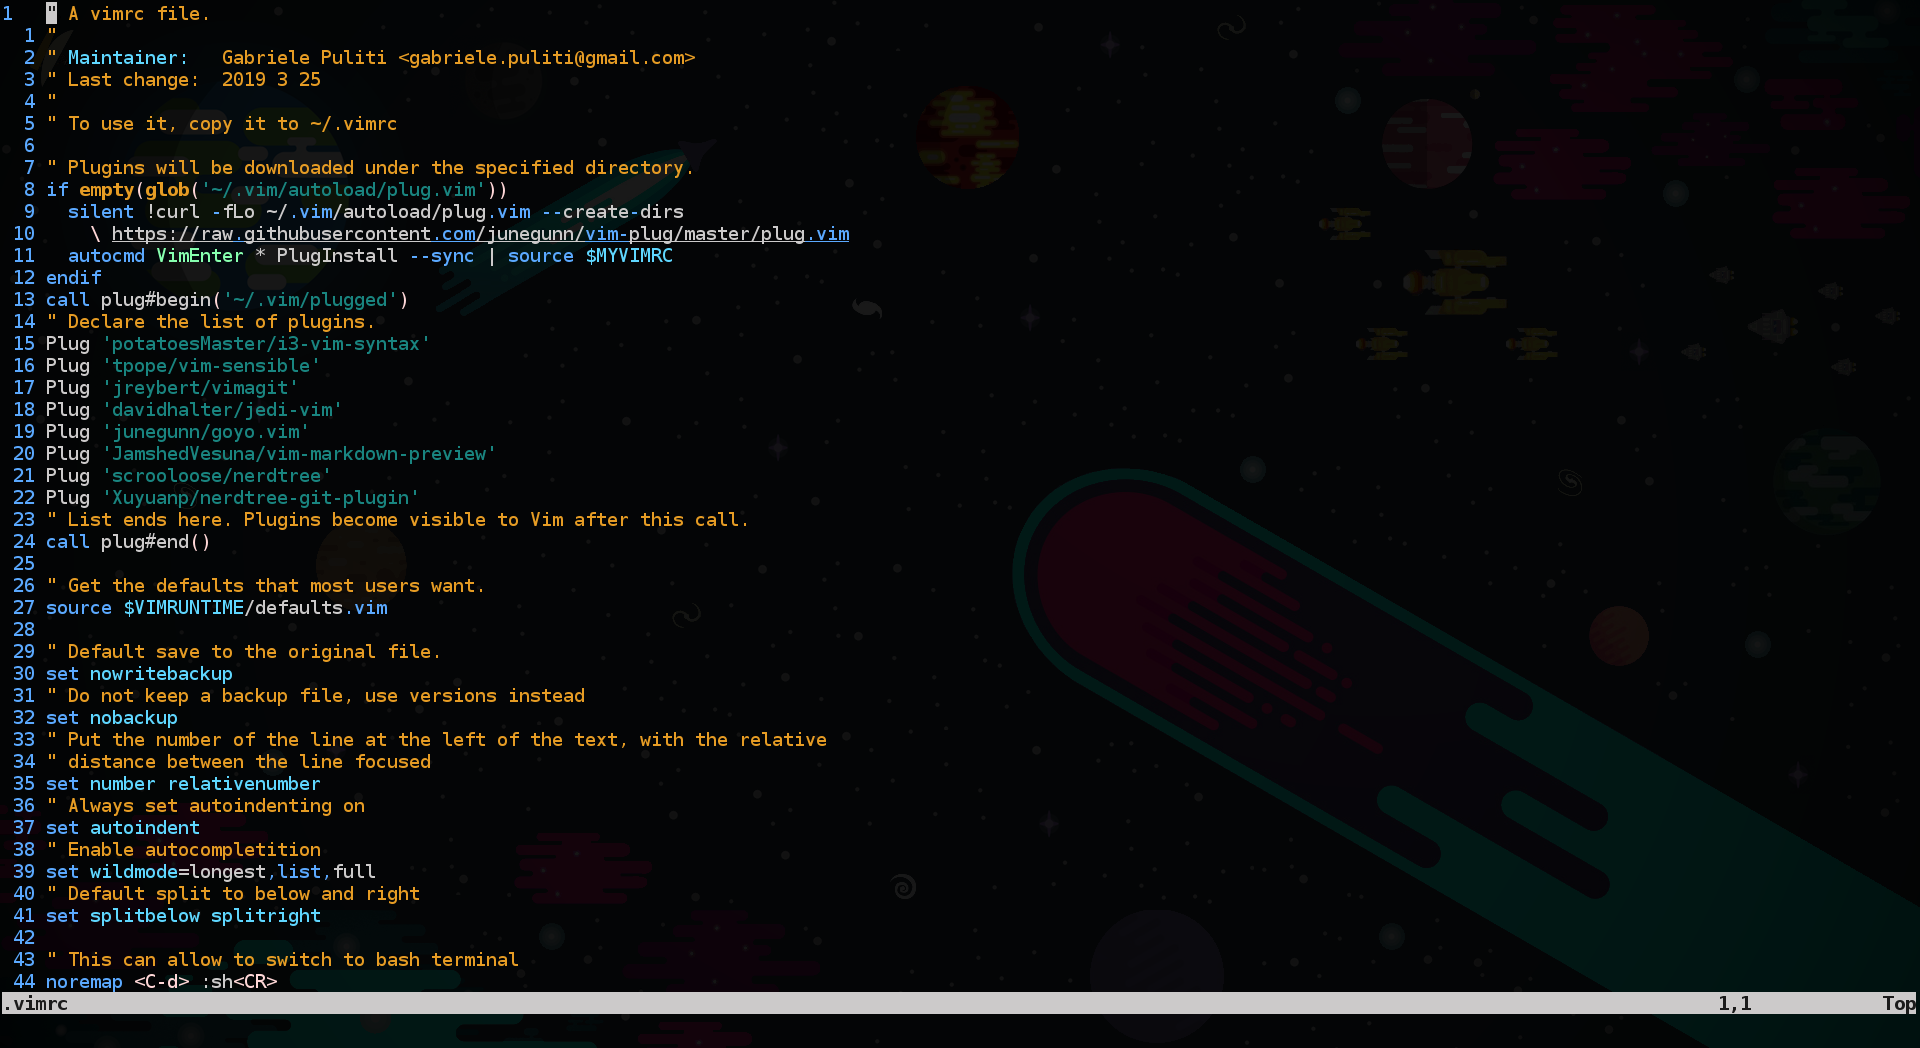
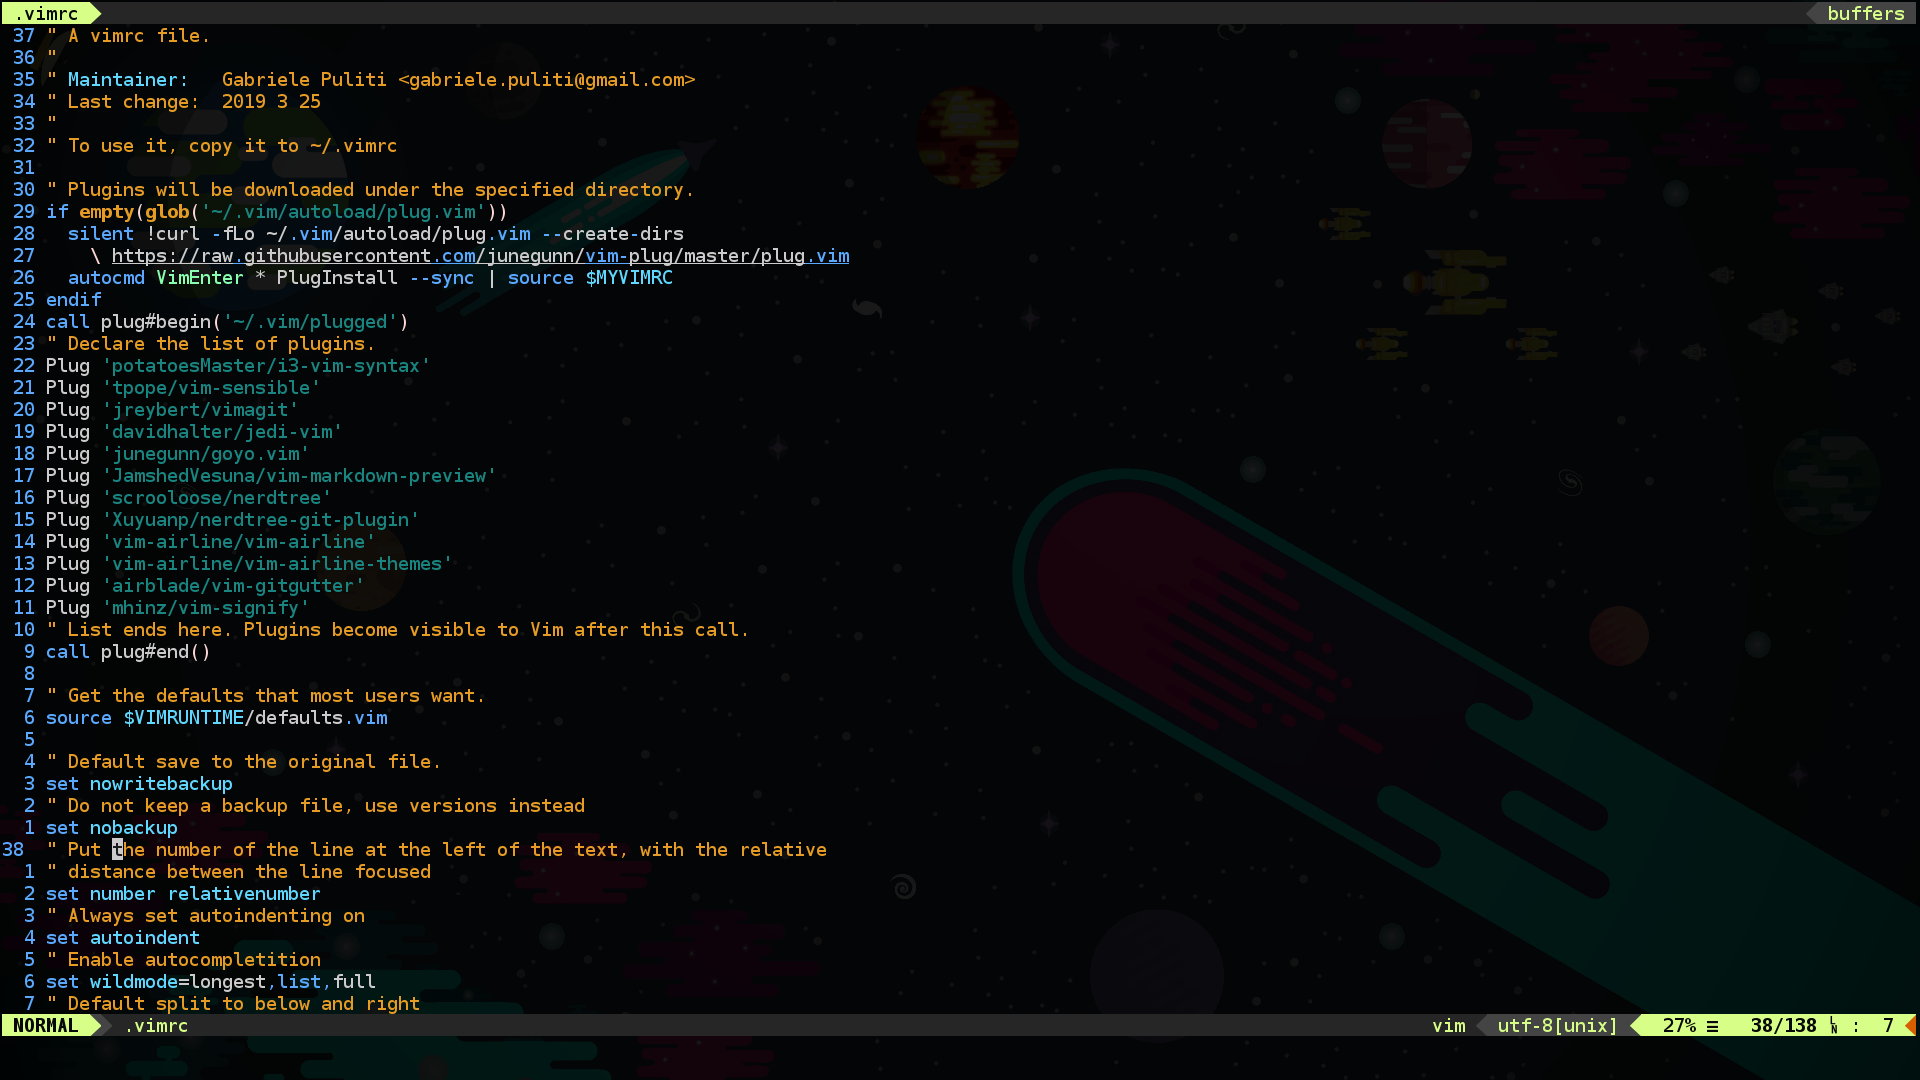
update (vim powerline)

Changed region(s): [[0.0, 0.0, 1.0, 0.9771]]

diff --git a/README.md b/README.md
@@ -1,6 +1,7 @@
 # Dotfiles
 
 ## Some details
+
 * OS: Debian 9 (stretch)
 * WM: I3wm ([i3-gaps](https://github.com/Airblader/i3))
 * Terminal: rxvt-unicode-256color (URxvt)
@@ -37,11 +38,40 @@
 This configuration is Vim oriented (move keys with h-j-k-l).
 You can find the config here -> [file](home/.config/i3/config)
 
+For this configuration I use this modes:
+
+1. Resize -> default resize modality of i3, use:
+
+    * l -> resize shrink width
+    * j -> resize grow height
+    * k -> resize shrink height
+    * h -> resize grow width
+    * q or Escape -> return to default mode
+
+2. System -> use to exit from i3, use:
+
+    * l -> logout
+    * s -> suspend
+    * h -> hibernate
+    * r -> reboot
+    * p -> shutdown
+    * q or Escape -> return to default mode
+
+3. Spotify -> use to control spotify desktop app, use:
+
+    * h -> previous song
+    * j -> pause
+    * k -> play
+    * l -> next song
+    * s -> toggle pause and play
+    * q or Escape -> return to default mode
+
 ### Preview
 
 ![i3preview](resources/i3.png)
 
 ### Keyboard
+
 I use the windows key as my main mod key.
 
 * `super + enter` -> new terminal
@@ -90,11 +120,13 @@ Bottom
 ### Modules
 
 Upper bar:
+
 * left -> spotify
 * center -> wireless-network wired-network
 * right -> tray
 
 Bottom bar:
+
 * left -> cpu memory filesystem temperature
 * center -> i3
 * right -> pulseaudio backlight battery date
@@ -110,12 +142,14 @@ You can find the Xresources here -> [file](home/.Xresources)
 ![urxvt](resources/urxvt.png)
 
 ### Keyboard
+
 * `Ctrl+k` -> increase the font size
 * `Ctrl+j` -> decrease the font size
 * `Ctrl+Shift+c` -> copy to the clipboard
 * `Ctrl+Shift+v` -> paste from the clipboard
 
 ### Plugin
+
 * [font-size](https://github.com/johntyree/urxvt-perls)
 * [url-select](https://github.com/johntyree/urxvt-perls)
 
@@ -130,9 +164,11 @@ You can find the zshrc here -> [file](home/.zshrc)
 ![zsh](resources/zsh.png)
 
 ### Keyboard
+
 Vim bindkey is active.
 
 ### Plugin
+
 *  debian
 *  git
 *  colorize
@@ -157,7 +193,9 @@ You can find the config here -> [file](home/.vimrc)
 ![vim](resources/vim.png)
 
 ### Keyboard
-###### To abilitate the copy and paste to clipboard you need to install vim-gnome
+
+#### To abilitate the copy and paste to clipboard you need to install vim-gnome
+
 * `Space+f` -> abilitate the goyo text viewer
 * `Ctrl+m` -> open the markdown preview on firefox
 * `Ctrl+n` -> open the nerd tree
@@ -165,7 +203,9 @@ You can find the config here -> [file](home/.vimrc)
 * `<F3>` -> paste from the clipboard
 
 ### Plugin
-###### I'm using [plugged](https://github.com/junegunn/vim-plug)
+
+#### I'm using [plugged](https://github.com/junegunn/vim-plug)
+
 * [i3-vim-syntax](github.com/potatoesMaster/i3-vim-syntax)
 * [vim-sensible](github.com/tpope/vim-sensible)
 * [jedi-vim](github.com/davidhalter/jedi-vim)
@@ -173,6 +213,10 @@ You can find the config here -> [file](home/.vimrc)
 * [vim-markdown-preview](github.com/JamshedVesuna/vim-markdown-preview)
 * [nerdtree](github.com/scrooloose/nerdtree)
 * [nerdtree-git-plugin](github.com/Xuyuanp/nerdtree-get-plugin)
+* [vim-airline](github.com/vim-airline/vim-airline)
+* [vim-airline-themes](vim-airline/vim-airline-themes)
+* [vim-gitgutter](github.com/airblade/vim-gitgutter)
+* [vim-signify](github.com/mhinz/vim-signify)
 
 ---------------------------------
 
@@ -186,6 +230,7 @@ You can find the config here -> [file](home/.config/vifm/vifmrc)
 
 ### Keyboard
 To see all of the keyboard shortcut go to cheatsheets: [vifm.info/cheatsheets.shtml](https://vifm.info/cheatsheets.shtml):
+
 ![vifm](https://vifm.info/cheatsheets/v0.10/vifm-v0.10-builtin-normal.png)
 
 ---------------------------------
@@ -197,9 +242,10 @@ To see all of the keyboard shortcut go to cheatsheets: [vifm.info/cheatsheets.sh
 ![code](resources/code.png)
 
 ### Keyboard
+
 ###### To see the keyboard setup you can read the [keybinding.json](.config/Code/User/keybindings.json).
+
 * All the Vim keybinding are set up with the VSCodeVim plugin
-* under develop
 
 ### Plugin
 
@@ -219,8 +265,8 @@ To install this plugins you can use the script [install_extension.sh](.config/Co
 
 ### Keyboard
 
-###### ***You can see all the configuration [here](home/.config/rofi/config)***
-###### ***This configuration is vim oriented***
+#### ***You can see all the configuration [here](home/.config/rofi/config)***
+#### ***This configuration is vim oriented***
 
 * `Alt + Shift + d` -> Clear input line
 * `Alt + Shift + i` -> Beginning of the line
@@ -232,9 +278,7 @@ To install this plugins you can use the script [install_extension.sh](.config/Co
 * `Alt + Shift + c` -> Delete till the end of the line
 * `Alt + Shift + s` -> Delete till the start of the line
 * `Control + Tab` -> Switch to the next mode
-* `Control + Shift + Tab` -> Switch to the previous mode
 * `Alt + Shift + h` -> Go to the previous column
-* `Alt + Shift + l` -> Go to the next column
 * `Alt + Shift + l` -> Go to the next column
 * `Control + Space` -> Set selected item as input text
 * `Alt + s` -> Take a screenshot of the rofi window
@@ -252,14 +296,19 @@ First of all you need to be in the sudoers:
 
 Download or clone one of the release and run:
 
-    git clone https://github.com/wabri/dotfiles
-    cd dotfiles
-    make all
+```Bash
+git clone https://github.com/wabri/dotfiles
+cd dotfiles
+make all
+```
 
 Now reboot and prey.
+
+Or you can follow the commands you find on the makefile step by step -> [makefile](Makefile)
 
 ---------------------------------
 
 ## WallPaper
 
 ![Wallpaper](home/.config/i3/desktop.jpg)
+
